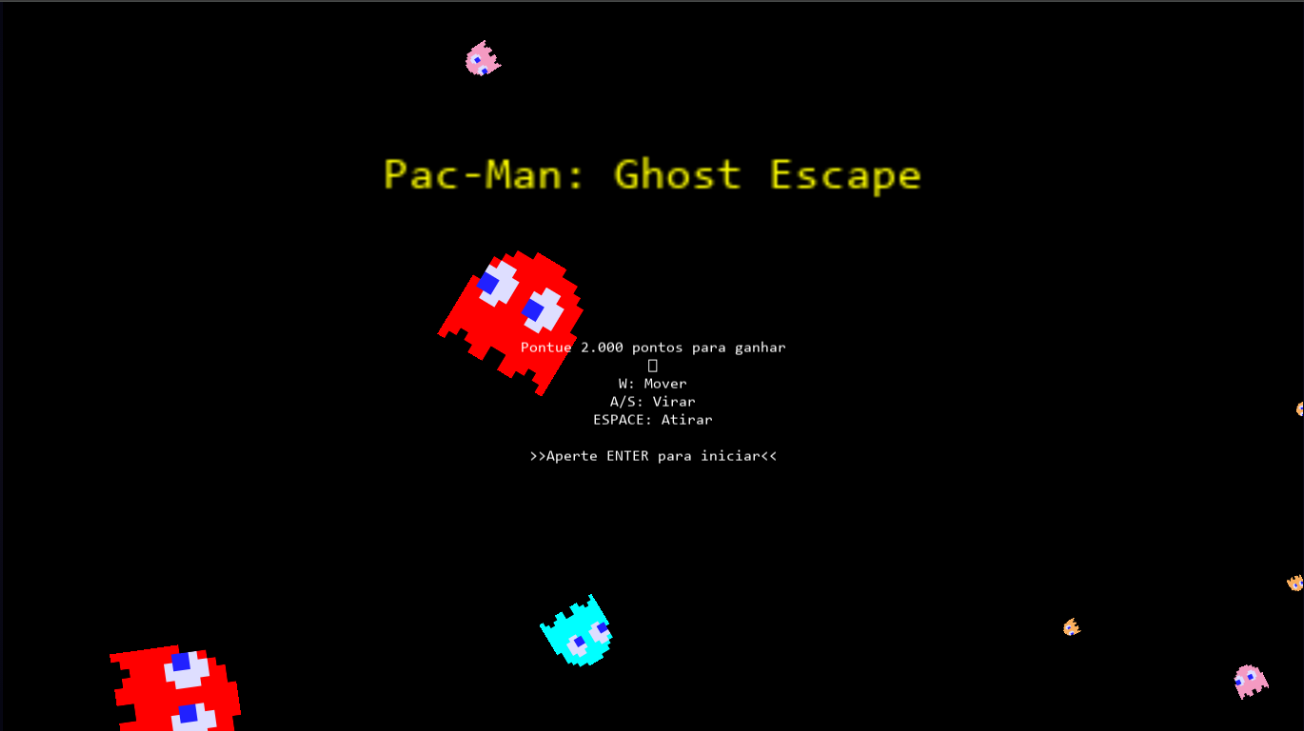
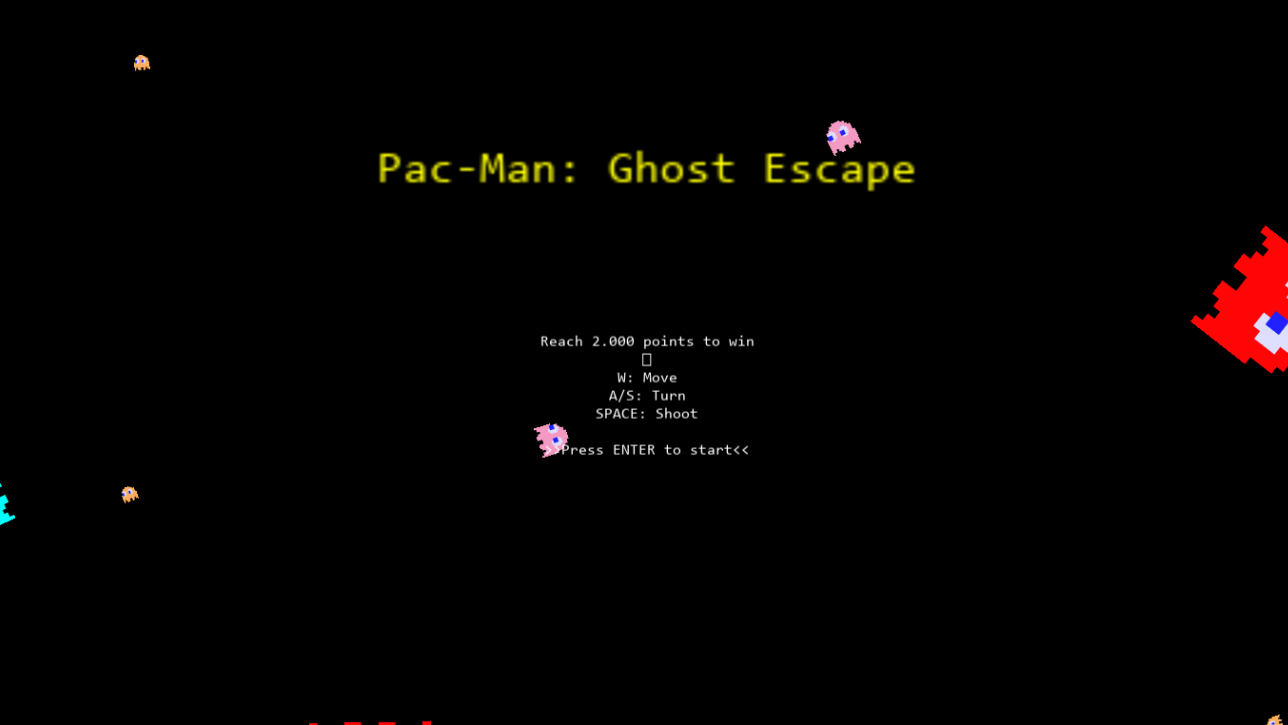
docs: improve readme and add eng cover art

diff --git a/README.md b/README.md
@@ -1,4 +1,14 @@
 # Pac-Man: Ghost Escape
 
-Projeto desenvolvido para fins estudantis, sem fins comerciais e sem filiação ao Pac-Man.
+![Cover art](https://raw.githubusercontent.com/JoaoHenriqueBR/Pac_Man-Ghost_Escape/refs/heads/main/img/Cover.png)
 
+[PLAY](https://gx.games/pt-br/games/xc42qd/pac-man-ghost-escape/)
+
+After years suffering from the ghosts, Pac-Man finally decided to take his revenge...
+
+---
+### Sobre o projeto | About the project
+
+🇧🇷 Este projeto foi desenvolvido exclusivamente para fins educacionais e de aprendizado, sem finalidade comercial. É um projeto independente, sem afiliação, patrocínio ou aprovação dos detentores da marca Pac-Man. As marcas e os elementos originais pertencem aos seus respectivos titulares.
+
+🇺🇸 This project was developed exclusively for educational and learning purposes, with no commercial intent. It is an independent project and is not affiliated with, sponsored by, or endorsed by the owners of the Pac-Man brand. All original trademarks and assets belong to their respective owners.
